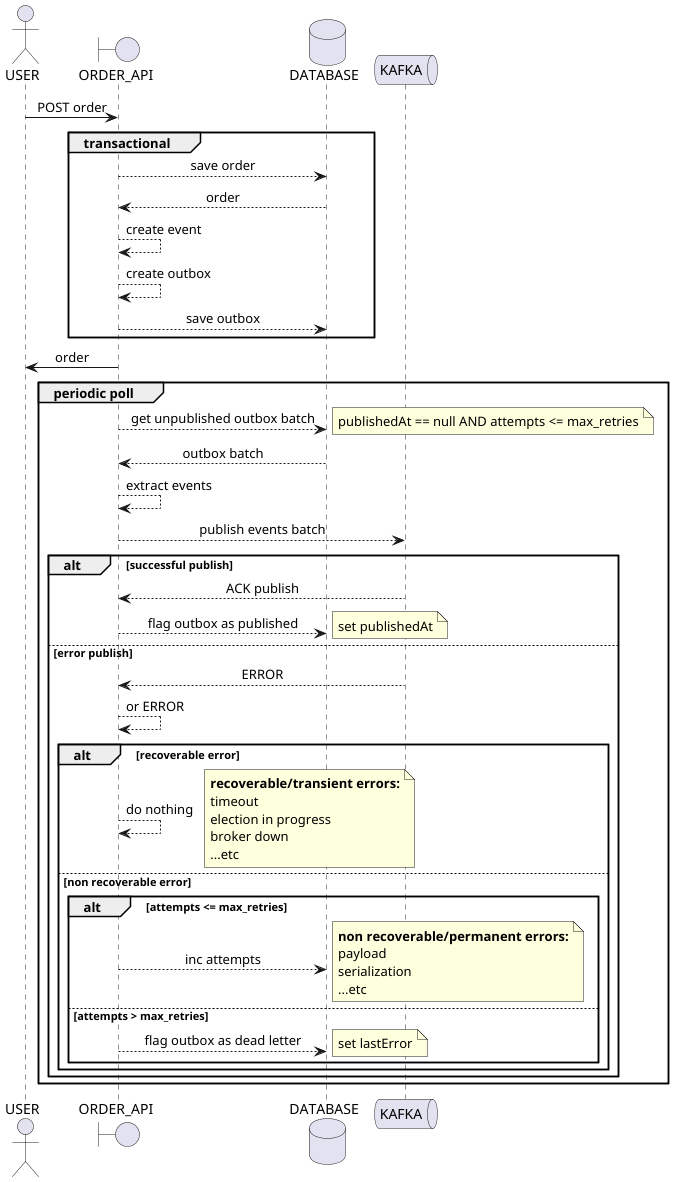
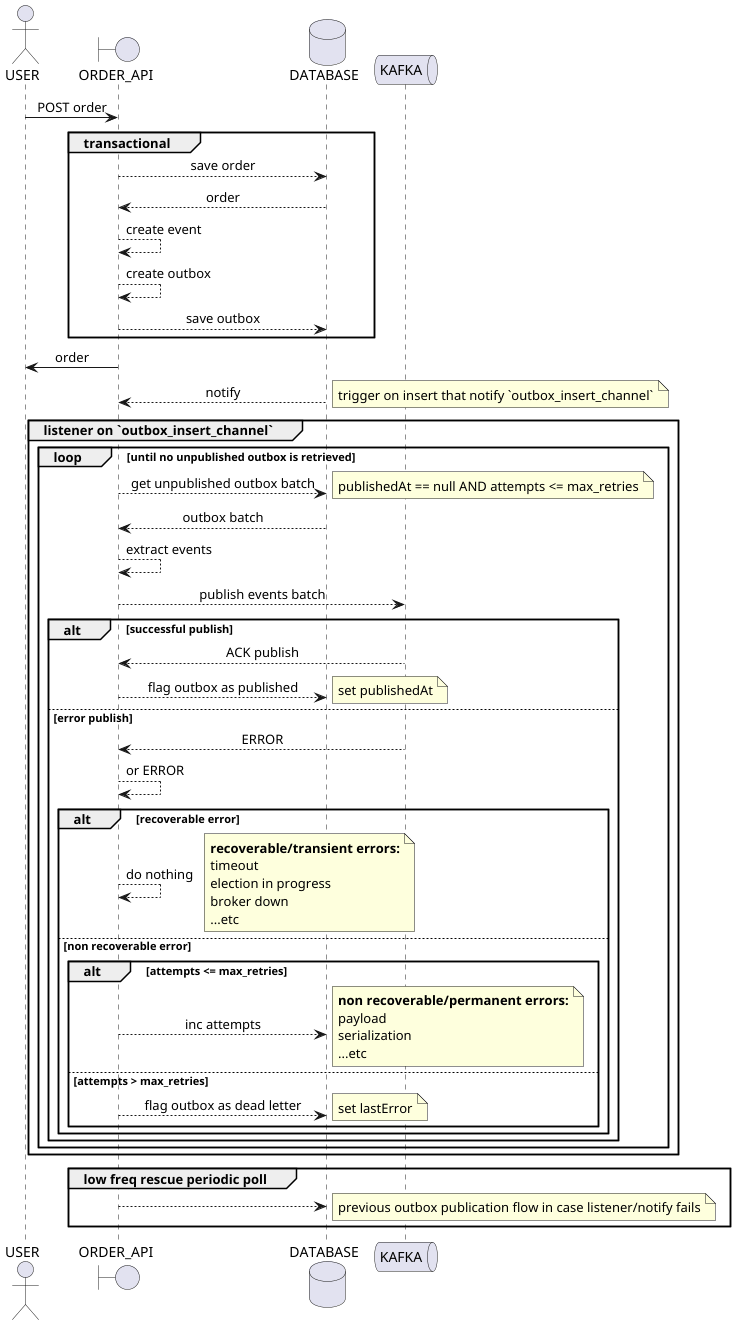
db notify channel

Changed region(s): [[0.0, 0.0, 0.9985, 1.0], [0.8113, 0.5178, 0.8425, 0.5482]]

diff --git a/order-api/src/main/kotlin/com/hamza/kafka/order/DrainService.kt b/order-api/src/main/kotlin/com/hamza/kafka/order/DrainService.kt
@@ -1,0 +1,52 @@
+package com.hamza.kafka.order
+
+import jakarta.transaction.Transactional
+import org.slf4j.LoggerFactory
+import org.springframework.beans.factory.annotation.Value
+import org.springframework.scheduling.annotation.Async
+import org.springframework.stereotype.Service
+import java.util.concurrent.Semaphore
+
+interface IDrainServiceTrigger {
+    fun trigger()
+}
+
+@Service
+class DrainServiceTrigger(
+    private val service: IDrainService,
+) : IDrainServiceTrigger {
+    private val logger = LoggerFactory.getLogger(javaClass)
+    private val semaphore = Semaphore(1)
+
+    @Async
+    override fun trigger() {
+        if (!semaphore.tryAcquire()) {
+            logger.info("drain service already running")
+            return
+        }
+        try {
+            while (service.drainBatch()) { /* keep going until outbox empty */ }
+        } finally {
+            semaphore.release()
+        }
+    }
+}
+
+interface IDrainService {
+    fun drainBatch(): Boolean
+}
+
+@Service
+class DrainService(
+    private val repo: IOrderOutboxRepository,
+    private val service: IPublishService,
+    @Value($$"${custom.orders.batch_size}") private val batchSize: Int,
+    @Value($$"${custom.orders.max_attempts}") private val maxAttempts: Int,
+) : IDrainService {
+    @Transactional
+    override fun drainBatch() =
+        repo
+            .retrieveUnpublished(batchSize, maxAttempts)
+            .takeIf { it.isNotEmpty() }
+            ?.also { service.publish(it) } != null
+}

diff --git a/order-api/src/main/kotlin/com/hamza/kafka/order/OutboxInsertionListener.kt b/order-api/src/main/kotlin/com/hamza/kafka/order/OutboxInsertionListener.kt
@@ -1,0 +1,48 @@
+package com.hamza.kafka.order
+
+import org.postgresql.PGConnection
+import org.slf4j.LoggerFactory
+import org.springframework.boot.context.event.ApplicationReadyEvent
+import org.springframework.context.ApplicationListener
+import org.springframework.stereotype.Component
+import javax.sql.DataSource
+
+@Component
+class OutboxInsertionListener(
+    private val dataSource: DataSource,
+    private val service: IDrainServiceTrigger,
+) : ApplicationListener<ApplicationReadyEvent> {
+    private val logger = LoggerFactory.getLogger(javaClass)
+
+    override fun onApplicationEvent(event: ApplicationReadyEvent) {
+        Thread
+            .ofVirtual()
+            .name("outbox-insertion-listener")
+            .start(::listen)
+    }
+
+    private fun listen() {
+        while (!Thread.currentThread().isInterrupted) {
+            try {
+                dataSource.connection.use {
+                    val pgConn = it.unwrap(PGConnection::class.java)
+                    it.createStatement().use { stm -> stm.execute("LISTEN outbox_insert_channel") }
+                    logger.info("Listening on channel: outbox_insert_channel")
+                    while (!Thread.currentThread().isInterrupted) {
+                        val notifications = pgConn.getNotifications(10_000)
+                        if (!notifications.isNullOrEmpty()) {
+                            logger.info("Received {} notifications, triggering drain service", notifications.size)
+                            service.trigger()
+                        }
+                    }
+                }
+            } catch (_: InterruptedException) {
+                Thread.currentThread().interrupt()
+                break
+            } catch (ex: Exception) {
+                logger.warn("Listener connection lost, reconnecting in 5s", ex)
+                Thread.sleep(5_000)
+            }
+        }
+    }
+}

diff --git a/order-api/src/main/kotlin/com/hamza/kafka/order/PersistenceService.kt b/order-api/src/main/kotlin/com/hamza/kafka/order/PersistenceService.kt
@@ -16,25 +16,25 @@ interface IPersistenceService {
 
 @Service
 class PersistenceService(
-    private val orderRepository: IOrderRepository,
-    private val orderOutboxRepository: IOrderOutboxRepository,
+    private val orderRepo: IOrderRepository,
+    private val orderOutboxRepo: IOrderOutboxRepository,
     private val objectMapper: ObjectMapper,
     @Value($$"${custom.orders.topic_name}") private val topicName: String,
 ) : IPersistenceService {
     @Transactional
     override fun save(request: OrderPostDto): Order {
-        val order = orderRepository.save(request.toEntity())
+        val order = orderRepo.save(request.toEntity())
         val event = order.toOrderPlacedEvent()
         val outbox = event.toOrderOutbox(objectMapper, topicName)
-        orderOutboxRepository.save(outbox)
+        orderOutboxRepo.save(outbox)
         return order
     }
 
     override fun getOrderById(id: String): Order =
-        orderRepository.findById(id).orElseThrow {
+        orderRepo.findById(id).orElseThrow {
             ResourceNotFoundException(id = id, name = "Order")
         }
 
     override fun getOutboxByOrderId(id: String): OrderOutbox =
-        orderOutboxRepository.findByOrderId(id) ?: throw ResourceNotFoundException(id = id, name = "OrderOutbox")
+        orderOutboxRepo.findByOrderId(id) ?: throw ResourceNotFoundException(id = id, name = "OrderOutbox")
 }

diff --git a/order-api/src/test/kotlin/com/hamza/kafka/order/PublishE2ETest.kt b/order-api/src/test/kotlin/com/hamza/kafka/order/PublishE2ETest.kt
@@ -23,7 +23,7 @@ import java.time.Duration
 
 @SpringBootTest(
     webEnvironment = SpringBootTest.WebEnvironment.RANDOM_PORT,
-    properties = ["custom.orders.poll_initial_delay=PT0S", "custom.orders.poll_delay=PT0.2S"],
+    properties = ["spring.jpa.hibernate.ddl-auto=validate", "spring.liquibase.enabled=true"],
 )
 @Import(PgTestContainer::class, KafkaTestContainer::class)
 @AutoConfigureRestTestClient
@@ -32,10 +32,10 @@ class PublishE2ETest {
     private lateinit var client: RestTestClient
 
     @Autowired
-    private lateinit var orderRepository: IOrderRepository
+    private lateinit var orderRepo: IOrderRepository
 
     @Autowired
-    private lateinit var outboxRepository: IOrderOutboxRepository
+    private lateinit var outboxRepo: IOrderOutboxRepository
 
     @Autowired
     private lateinit var objectMapper: ObjectMapper
@@ -97,7 +97,7 @@ class PublishE2ETest {
 
         // check orders saved to DB
         requestsById.forEach { (id, request) ->
-            orderRepository.findById(id).orElse(null).also {
+            orderRepo.findById(id).orElse(null).also {
                 assertThat(it).isNotNull
                 assertThat(it!!.customerId).isEqualTo(request.customerId)
                 assertThat(it.items).isEqualTo(request.items.map { item -> item.toEntity() })
@@ -107,7 +107,7 @@ class PublishE2ETest {
         // check orders outbox saved to DB and published without error
         await().atMost(Duration.ofSeconds(30)).untilAsserted {
             ids.forEach {
-                outboxRepository.findByOrderId(it).also { outbox ->
+                outboxRepo.findByOrderId(it).also { outbox ->
                     assertThat(outbox).isNotNull
                     assertThat(outbox!!.publishedAt).isNotNull
                     assertThat(outbox.attempts).isZero
@@ -118,7 +118,7 @@ class PublishE2ETest {
         // check events published to kafka
         val records = KafkaTestUtils.getRecords(consumer, Duration.ofSeconds(30))
         val publishedEvents = records.records(topicName).map { parseJson<OrderPlacedEvent>(it.value(), objectMapper) }
-        val expectedEvents = orderRepository.findAll().map { it.toOrderPlacedEvent() }
+        val expectedEvents = orderRepo.findAll().map { it.toOrderPlacedEvent() }
         assertThat(publishedEvents)
             .usingRecursiveFieldByFieldElementComparator(
                 RecursiveComparisonConfiguration.builder().withIgnoredFields("eventId", "occurredAt").build(),

diff --git a/order-api/src/main/kotlin/com/hamza/kafka/order/PollingService.kt b/order-api/src/main/kotlin/com/hamza/kafka/order/PollingService.kt
@@ -5,13 +5,14 @@ import org.springframework.beans.factory.annotation.Value
 import org.springframework.scheduling.annotation.Scheduled
 import org.springframework.stereotype.Service
 
+// low freq rescue poll
 interface IPollingService {
     fun poll(): List<OrderOutbox>
 }
 
 @Service
 class PollingService(
-    private val repository: IOrderOutboxRepository,
+    private val repo: IOrderOutboxRepository,
     private val service: IPublishService,
     @Value($$"${custom.orders.batch_size}") private val batchSize: Int,
     @Value($$"${custom.orders.max_attempts}") private val maxAttempts: Int,
@@ -22,7 +23,7 @@ class PollingService(
     )
     @Transactional
     override fun poll() =
-        repository
+        repo
             .retrieveUnpublished(batchSize = batchSize, maxAttempts = maxAttempts)
             .let { service.publish(it) }
 }

diff --git a/order-api/src/test/kotlin/com/hamza/kafka/order/PollingServiceScheduledTest.kt b/order-api/src/test/kotlin/com/hamza/kafka/order/PollingServiceScheduledTest.kt
@@ -11,7 +11,7 @@ import java.util.concurrent.TimeUnit
 
 @SpringBootTest(
     webEnvironment = SpringBootTest.WebEnvironment.NONE,
-    properties = ["custom.orders.poll_delay=PT5S", "custom.orders.poll_initial_delay=PT0S"],
+    properties = ["custom.orders.poll_delay=PT1S", "custom.orders.poll_initial_delay=PT0S"],
 )
 @Import(PgTestContainer::class)
 class PollingServiceScheduledTest {

diff --git a/README.md b/README.md
@@ -1,14 +1,14 @@
-# Kafka Demo
+# Kafka demo
 
-Event-driven pipeline demo
+event-driven pipeline demo
 
-- KRaft multi broker cluster
-- replication
-- partitioning
-- manual outbox
-- automatic outbox using debezium
-- GraalVM native compilation
-- mTLS security
+## env
+
+![Kraft cluster](docs/kafka_comp_demo.png)
+
+this env can be modified using [compose.yaml](compose.yaml) and [.env](.env)
+
+(in a real prod env it should be multiple isolation zones with N ctrls + M brokers in each zone)
 
 ## components
 
@@ -17,8 +17,6 @@ Event-driven pipeline demo
 shared libs
 
 ### order-api
-
-#### sequence
 
 ![order api sequence UML](docs/order_api_seq.png)
 
@@ -29,3 +27,38 @@ TODO
 ### audit-service
 
 TODO
+
+## run
+
+```shell
+docker compose up --build
+```
+
+## build
+
+[sdkman](https://sdkman.io)
+
+[nvm](https://github.com/nvm-sh/nvm)
+
+[docker](https://docs.docker.com/engine/install/)
+
+```shell
+nvm use && npm i && sdk env install
+```
+
+JVM
+
+[uses spring compose support](compose.dev.yaml)
+
+```shell
+./gradlew clean ktlintFormat ktlintCheck build
+./gradlew bootRun
+```
+
+Native
+
+```shell
+./gradlew clean ktlintFormat ktlintCheck build -PgenerateMetadata && ./gradlew --stop
+./gradlew buildImage && ./gradlew --stop
+docker compose up --build
+```